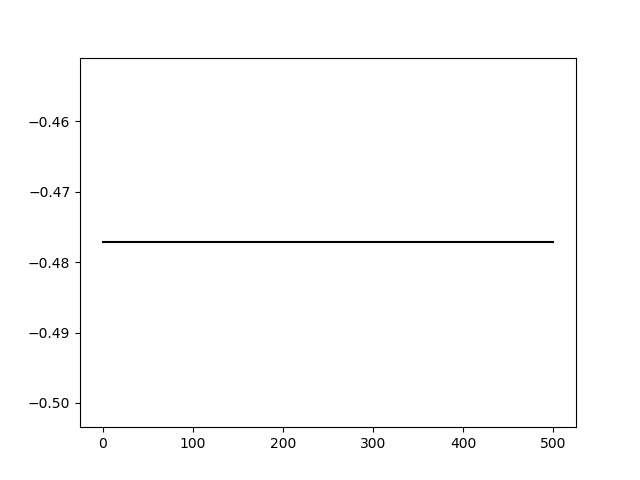
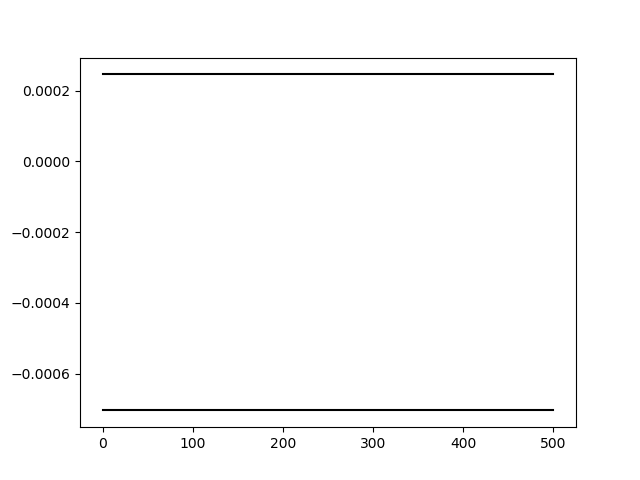
shabby finisher code for final presentation... please fix me senpai

diff --git a/myflaskapp/templates/displayResult.html b/myflaskapp/templates/displayResult.html
@@ -48,9 +48,7 @@
 
             <!-- This div represents the text below the graph -->
             <div class="container graph-description">
-                <p class="text" style="margin-top: 2.5%;">
-                    GRAPH DESCRIPTION GRAPH DESCRIPTIONGRAPH DESCRIPTIONGRAPH DESCRIPTIONGRAPH DESCRIPTIONGRAPH DESCRIPTIONGRAPH DESCRIPTIONGRAPH DESCRIPTIONGRAPH DESCRIPTIONGRAPH DESCRIPTIONGRAPH DESCRIPTIONGRAPH DESCRIPTIONGRAPH DESCRIPTION
-                </p>
+              
             </div>
         </div>
 
@@ -63,20 +61,20 @@
             <div class="wrapper">
 
                 <!-- This div represents the header text above the graph -->
-                <div class="header">
-                    <h1>Acceleration Graph:</h1>
-                    <p class="lead">Below are the results!</p>
-                </div>
+              <!--  <div class="header">-->
+                  <!--  <h1>Acceleration Graph:</h1>-->
+                <!--    <p class="lead">Below are the results!</p>-->
+              <!--  </div>-->
 
                 <!-- This div represents the graph image -->
-                <img src="{{ user_images1 }}" class="img-fluid" alt="Graph Image">
+              <!--  <img src="{{ user_images1 }}" class="img-fluid" alt="Graph Image"> -->
 
                 <!-- This div represents the text below the graph -->
-                <div class="container graph-description">
-                    <p class="text" style="margin-top: 2.5%;">
-                        The AI part produces an AI model that will be used to make the actual predictions.  It splits the original data set into two, using one set to train the model and using the other set to test the model's accuracy.
-                    </p>
-                </div>
+                <!--<div class="container graph-description"> -->
+                  <!--  <p class="text" style="margin-top: 2.5%;"> -->
+                    <!--    The AI part produces an AI model that will be used to make the actual predictions.  It splits the original data set into two, using one set to train the model and using the other set to test the model's accuracy. -->
+                  <!--  </p> -->
+              <!--  </div>-->
             </div>
         </div>
 

diff --git a/myflaskapp/app.py b/myflaskapp/app.py
@@ -26,19 +26,19 @@ def uploader_file():
       f = request.files['file'] #f gets the fiels that were sent
       f.save(secure_filename(f.filename)) #save f
       timeOfPred = 100    #TODO add input on screen for time
-      makePrediction(f.filename, timeOfPred) #'inputTestData.json'
-      return displayResult([1])
+      inVals = makePrediction(f.filename, timeOfPred) #'inputTestData.json'
+      return displayResult([1], inVals)
 
 #Hook to display prediction result in html
-predictionResultsFromData = [15, 14, 15, 15.1]
+predictionResultsFromData = []
 
 #This displays the images
 @app.route('/<predictionResults>')
-def displayResult(predictionResults):
+def displayResult(predictionResults, inVals):
     full_filepath = os.path.join(app.config['UPLOAD_FOLDER'], 'newFigure1.png')
     full_filepath1 = os.path.join(app.config['UPLOAD_FOLDER'], 'accelGraph.png')
     timeInput = request.form['userTimeInput']
-    return render_template('displayResult.html',user_images1 =full_filepath1, user_images = full_filepath, predictionResults = predictionResultsFromData[-1])
+    return render_template('displayResult.html',user_images1 =full_filepath1, user_images = full_filepath, predictionResults = inVals)
 
 def makePrediction(inputFileName, timeOfPred):
     modelMaker = CARE_part2.CARE_part2('testWithZeros.json', 4, inputFileName)
@@ -49,7 +49,8 @@ def makePrediction(inputFileName, timeOfPred):
     x_vals = inputVals[0] + [inputVals[0][len(inputVals[0]) - 1] + timeOfPred] #add the latest time to timeOfPred when appending
     y_vals = inputVals[(len(inputVals) - 1)] + [prediction]
     #values = predict.splitPred(prediction)
-    predict.saveGraph(inputVals[2], prediction[1])
+    predict.saveGraph(inputVals[len(inputVals) - 1], prediction[1])
+    return prediction[1][-1]
 
 if __name__ == '__main__':
     app.run(debug = True)

diff --git a/myflaskapp/CARE_part2.py b/myflaskapp/CARE_part2.py
@@ -195,10 +195,9 @@ class CellDataMerge:
         if self.updateTime:
             for i in range(numTimes):
                 self.timeArray.append(i)
-"""     
+    
 #testing code      
 hello = CARE_part2('testWithZeros.json', 4, 'inputTestData.json')
 hello.generateModel(2)
 
 testing = hello.getInputArray()
-"""

diff --git a/myflaskapp/predict.py b/myflaskapp/predict.py
@@ -91,11 +91,10 @@ def populateTime(start,time):
     return timeArray
 
 
-"""
+
 #test code
 modelMaker = CARE_part2.CARE_part2('testWithZeros.json', 4, 'inputTestData.json')
 prediction = predict(modelMaker, 100)
 
 
 print(prediction)
-"""
